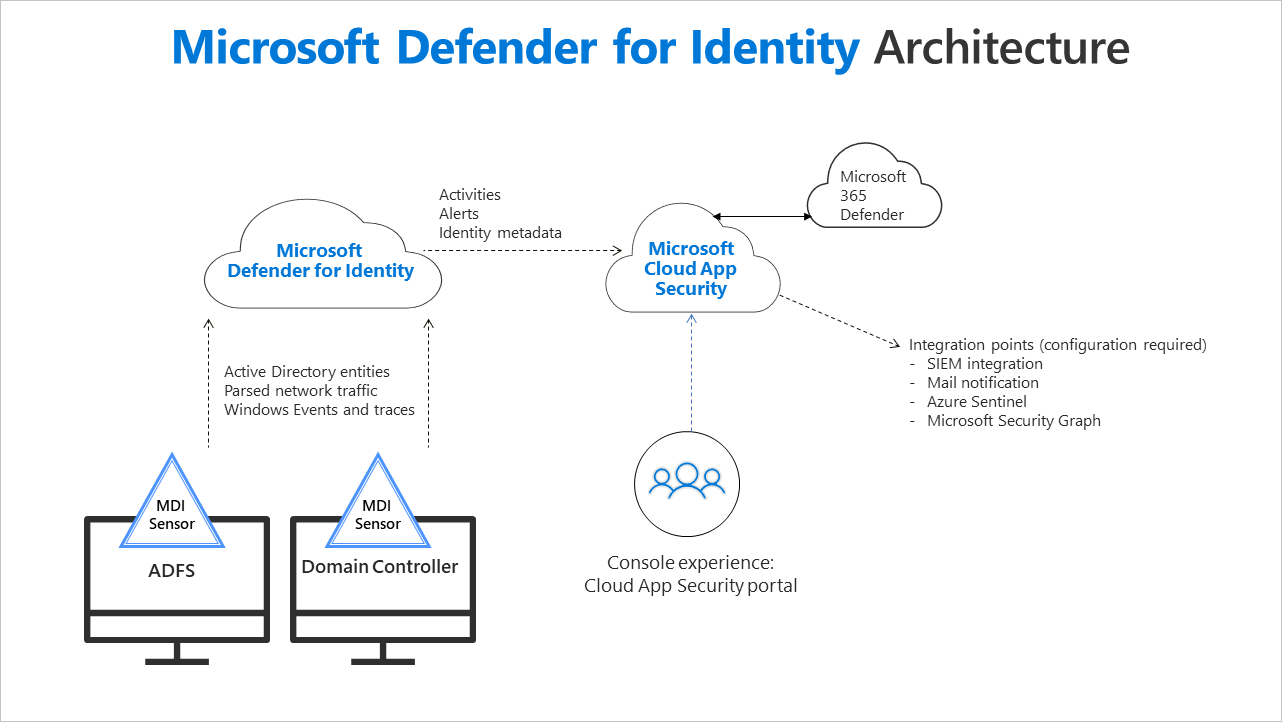
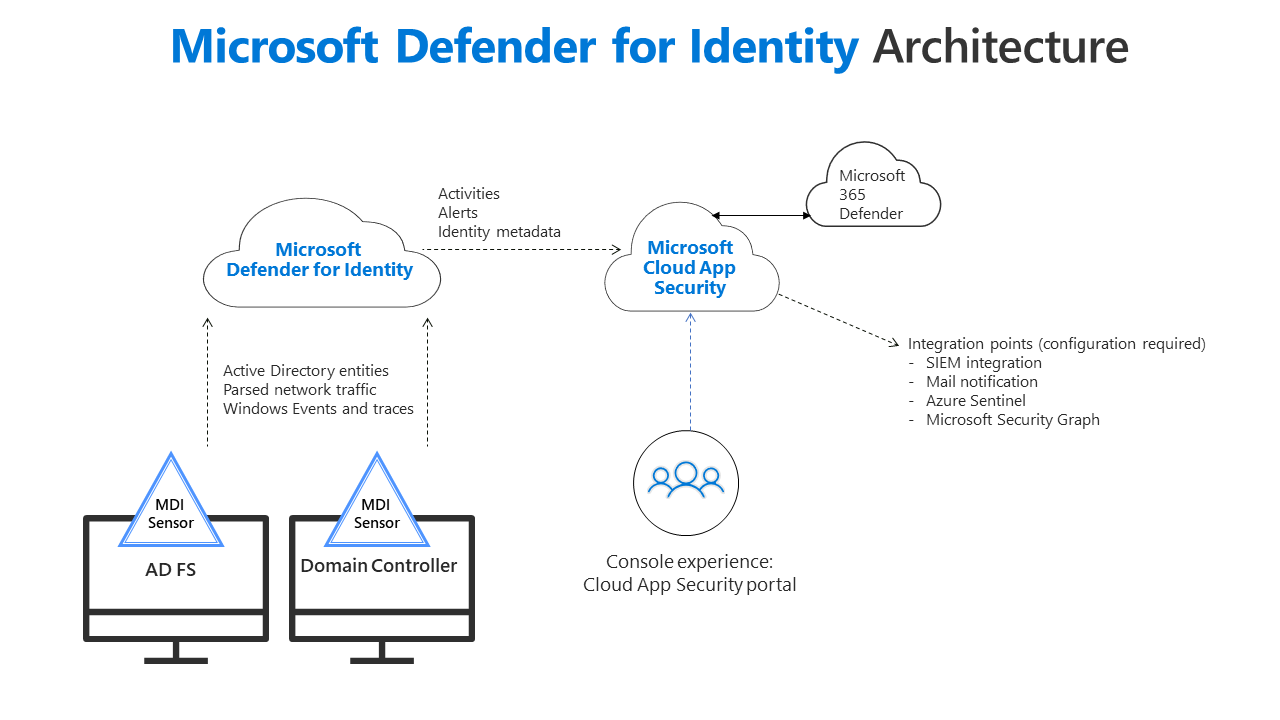
Add review updates

diff --git a/ATPDocs/architecture.md b/ATPDocs/architecture.md
@@ -15,7 +15,7 @@ ms.topic: overview
 
 This section describes how the flow of [!INCLUDE [Product short](includes/product-short.md)]'s network and event capturing works, and drills down to describe the functionality of the main components: the [!INCLUDE [Product short](includes/product-short.md)] portal, [!INCLUDE [Product short](includes/product-short.md)] sensor, and [!INCLUDE [Product short](includes/product-short.md)] cloud service.
 
-Installed directly on your domain controllers, the [!INCLUDE [Product short](includes/product-short.md)] sensor accesses the event logs it requires directly from the domain controller. After the logs and network traffic are parsed by the sensor, [!INCLUDE [Product short](includes/product-short.md)] sends only the parsed information to the [!INCLUDE [Product short](includes/product-short.md)] cloud service (only a percentage of the logs are sent).
+Installed directly on your domain controller or AD FS servers, the [!INCLUDE [Product short](includes/product-short.md)] sensor accesses the event logs it requires directly from the servers. After the logs and network traffic are parsed by the sensor, [!INCLUDE [Product short](includes/product-short.md)] sends only the parsed information to the [!INCLUDE [Product short](includes/product-short.md)] cloud service (only a percentage of the logs are sent).
 
 ## [!INCLUDE [Product short](includes/product-short.md)] components
 
@@ -25,7 +25,7 @@ Installed directly on your domain controllers, the [!INCLUDE [Product short](inc
 The [!INCLUDE [Product short](includes/product-short.md)] portal allows the creation of your [!INCLUDE [Product short](includes/product-short.md)] instance, displays the data received from [!INCLUDE [Product short](includes/product-short.md)] sensors, and enables you to monitor, manage, and investigate threats in your network environment.
 
 - **[!INCLUDE [Product short](includes/product-short.md)] sensor**  
-[!INCLUDE [Product short](includes/product-short.md)] sensors can be directly installed on the following:
+[!INCLUDE [Product short](includes/product-short.md)] sensors can be directly installed on the following servers:
   - **Domain controllers**: The sensor directly monitors domain controller traffic, without the need for a dedicated server, or configuration of port mirroring.
   - **AD FS**: The sensor directly monitors network traffic and authentication events.
 - **[!INCLUDE [Product short](includes/product-short.md)] cloud service**  
